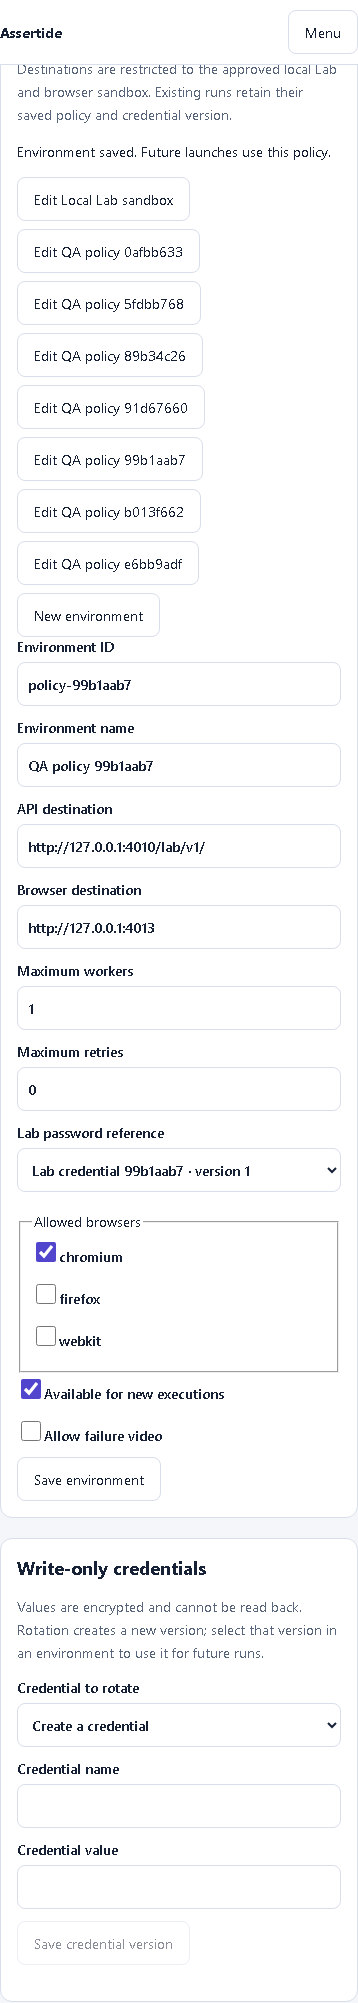
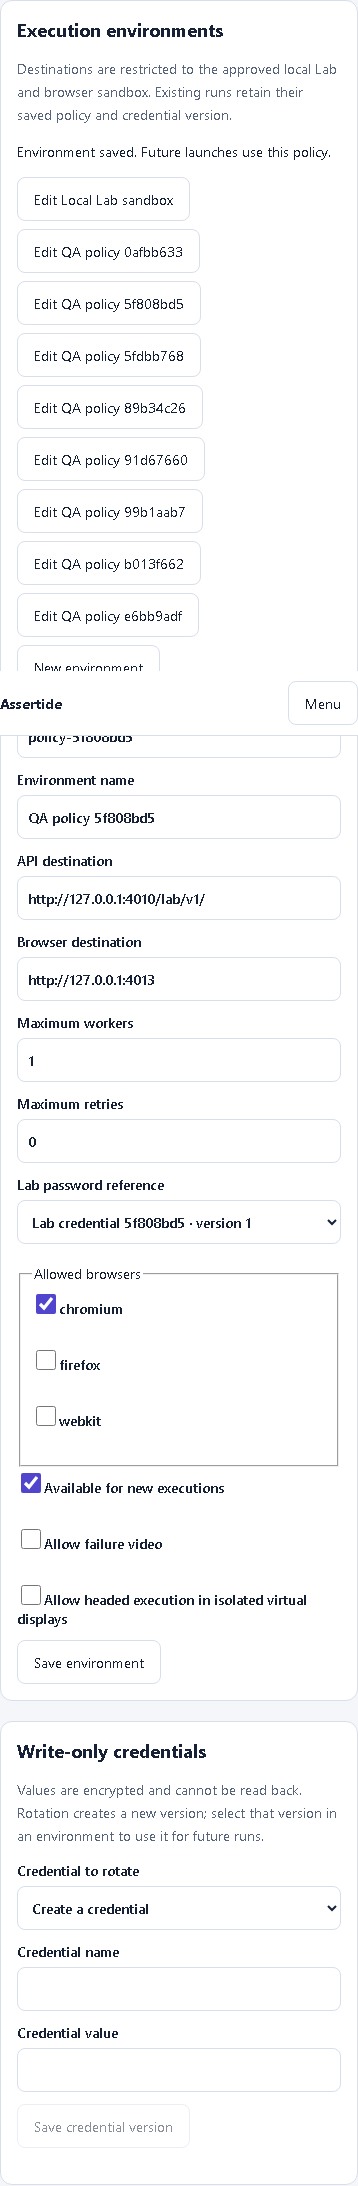
Add policy-controlled headed execution in isolated virtual displays

diff --git a/apps/web/src/app/pages/explorer.ts b/apps/web/src/app/pages/explorer.ts
@@ -132,6 +132,12 @@ import { Api, TestCase, Environment, errorMessage } from '../core/api';
         <h2>Configure execution</h2>
         <p>{{ selected().length }} tests selected</p>
         @if (hasUi()) {
+          @if (canHeaded()) {
+            <label
+              ><input type="checkbox" [(ngModel)]="headed" />Headed browser in a virtual
+              display</label
+            >
+          }
           <label
             >Video<select [(ngModel)]="video">
               <option value="off">Off</option>
@@ -238,6 +244,15 @@ export class Explorer {
   browser = 'chromium';
   environmentId = 'local-lab';
   readonly environments = signal<Environment[]>([]);
+  readonly headedAvailable = signal(false);
+  headed = false;
+  canHeaded() {
+    return (
+      this.headedAvailable() &&
+      !!this.environments().find((environment) => environment.id === this.environmentId)
+        ?.allowHeaded
+    );
+  }
   video: 'off' | 'retain-on-failure' = 'off';
   readonly hasUi = computed(() => this.selected().some((id) => id.startsWith('UI-')));
   private key = crypto.randomUUID();
@@ -266,13 +281,12 @@ export class Explorer {
       this.selected.update((ids) =>
         ids.filter((id) => catalog.items.some((item) => item.id === id && item.enabled)),
       );
-      this.environments.set(
-        (
-          await this.api.get<{ items: Environment[] }>(
-            `/projects/${this.api.projectId()}/environments`,
-          )
-        ).items,
-      );
+      const environments = await this.api.get<{
+        items: Environment[];
+        capabilities?: { headed: boolean };
+      }>(`/projects/${this.api.projectId()}/environments`);
+      this.environments.set(environments.items);
+      this.headedAvailable.set(environments.capabilities?.headed ?? false);
       this.revision.set(catalog.revision);
       this.error.set(catalog.discoveryError ?? '');
     } catch (error) {
@@ -320,6 +334,7 @@ export class Explorer {
         this.revision(),
         this.video,
         this.environmentId,
+        this.hasUi() && this.canHeaded() && this.headed,
       );
       await this.router.navigate(['/runs', run.id]);
     } catch (error) {

diff --git a/apps/web/src/app/core/environments.ts b/apps/web/src/app/core/environments.ts
@@ -62,7 +62,11 @@ interface Secret {
           <label
             >Lab password reference<select name="secret" [(ngModel)]="reference">
               <option value="">Generated local credential</option>
-              @if (oldReference()) { <option [value]="draft.passwordRef!.id + ':' + draft.passwordRef!.version">Saved credential · version {{ draft.passwordRef!.version }}</option> }
+              @if (oldReference()) {
+                <option [value]="draft.passwordRef!.id + ':' + draft.passwordRef!.version">
+                  Saved credential · version {{ draft.passwordRef!.version }}
+                </option>
+              }
               @for (secret of secrets(); track secret.id) {
                 <option [value]="secret.id + ':' + secret.version">
                   {{ secret.name }} · version {{ secret.version }}
@@ -90,6 +94,10 @@ interface Secret {
         <label
           ><input name="video" type="checkbox" [(ngModel)]="draft.allowVideo" />Allow failure
           video</label
+        >
+        <label
+          ><input name="headed" type="checkbox" [(ngModel)]="draft.allowHeaded" />Allow headed
+          execution in isolated virtual displays</label
         >
         <button [disabled]="busy()">Save environment</button>
       </form>
@@ -139,7 +147,16 @@ export class Environments {
   readonly notice = signal('');
   draft: Environment = this.empty();
   reference = '';
-  oldReference() { return this.draft.passwordRef && !this.secrets().some((secret) => secret.id === this.draft.passwordRef?.id && secret.version === this.draft.passwordRef.version); }
+  oldReference() {
+    return (
+      this.draft.passwordRef &&
+      !this.secrets().some(
+        (secret) =>
+          secret.id === this.draft.passwordRef?.id &&
+          secret.version === this.draft.passwordRef.version,
+      )
+    );
+  }
   rotation = '';
   secretName = '';
   secretValue = '';
@@ -158,6 +175,7 @@ export class Environments {
       maxRetries: 0,
       browsers: ['chromium'],
       allowVideo: false,
+      allowHeaded: false,
     };
   }
   fresh() {

diff --git a/apps/api/test/environments.test.ts b/apps/api/test/environments.test.ts
@@ -132,6 +132,15 @@ test("environment policies freeze versioned encrypted credentials and reject for
       randomUUID(),
     );
     assert.equal(JSON.stringify(run).includes(secretValue), false);
+    await assert.rejects(
+      platform.launch(
+        principal,
+        localProjectId,
+        { ...input, headed: true },
+        randomUUID(),
+      ),
+      /policy/,
+    );
     assert.equal(
       (
         await request(
@@ -160,6 +169,42 @@ test("environment policies freeze versioned encrypted credentials and reject for
       passwordRef: { id: string; version: number };
     };
     assert.equal(snapshot.passwordRef.version, 1);
+    const runtime = process.env["WORKER_RUNTIME"];
+    try {
+      assert.equal(
+        (
+          await request(
+            "environments",
+            { ...env, id: "headed", allowHeaded: true },
+            0,
+          )
+        ).status,
+        200,
+      );
+      const headedInput = {
+        ...input,
+        environmentId: "headed",
+        headed: true,
+        selection: { testIds: ["UI-001"] },
+        browserProjects: ["chromium"],
+      };
+      process.env["WORKER_RUNTIME"] = "local";
+      await assert.rejects(
+        platform.launch(principal, localProjectId, headedInput, randomUUID()),
+        /policy/,
+      );
+      process.env["WORKER_RUNTIME"] = "oci";
+      const headedRun = await platform.launch(
+        principal,
+        localProjectId,
+        headedInput,
+        randomUUID(),
+      );
+      assert.equal((headedRun["config"] as { headed: boolean }).headed, true);
+    } finally {
+      if (runtime === undefined) delete process.env["WORKER_RUNTIME"];
+      else process.env["WORKER_RUNTIME"] = runtime;
+    }
     assert.equal(
       (await request("environments", { ...env, enabled: false }, 1)).status,
       200,

diff --git a/apps/api/src/environments.ts b/apps/api/src/environments.ts
@@ -24,6 +24,7 @@ export const environmentSchema = z
       .min(1)
       .max(3),
     allowVideo: z.boolean(),
+    allowHeaded: z.boolean().default(false),
     passwordRef: z
       .object({ id: z.uuid(), version: z.number().int().positive() })
       .strict()
@@ -137,12 +138,10 @@ export function mountEnvironments(
         }
         await work(req, res, principal, project);
       } catch {
-        res
-          .status(500)
-          .json({
-            title: "Environment operation failed",
-            correlationId: randomUUID(),
-          });
+        res.status(500).json({
+          title: "Environment operation failed",
+          correlationId: randomUUID(),
+        });
       }
     };
   app.post(
@@ -150,12 +149,10 @@ export function mountEnvironments(
     handle(async (req, res, principal, project) => {
       const input = environmentSchema.safeParse(req.body);
       if (!input.success) {
-        res
-          .status(422)
-          .json({
-            title:
-              "Only the approved local sandbox destinations and worker limits are permitted",
-          });
+        res.status(422).json({
+          title:
+            "Only the approved local sandbox destinations and worker limits are permitted",
+        });
         return;
       }
       const version = /^"(\d+)"$/.exec(req.get("If-Match") ?? "");
@@ -175,11 +172,9 @@ export function mountEnvironments(
           ],
         );
         if (!found.rows.length) {
-          res
-            .status(422)
-            .json({
-              title: "Credential reference is unavailable in this project",
-            });
+          res.status(422).json({
+            title: "Credential reference is unavailable in this project",
+          });
           return;
         }
       }

diff --git a/apps/api/src/platform.ts b/apps/api/src/platform.ts
@@ -93,7 +93,7 @@ const runInput = z
     browserProjects: z.array(z.enum(["chromium", "firefox", "webkit"])).max(3),
     workers: z.number().int().min(1).max(4),
     retries: z.number().int().min(0).max(2),
-    headed: z.literal(false),
+    headed: z.boolean().default(false),
     video: z.enum(["off", "retain-on-failure"]),
     commitSha: z
       .string()
@@ -544,7 +544,11 @@ export class PlatformService {
       config.browserProjects.some(
         (browser) => !environment?.browsers.includes(browser),
       ) ||
-      (config.video !== "off" && !environment.allowVideo)
+      (config.video !== "off" && !environment.allowVideo) ||
+      (config.headed &&
+        (!environment.allowHeaded ||
+          process.env["WORKER_RUNTIME"] !== "oci" ||
+          !config.selection.testIds.some((id) => id.startsWith("UI-"))))
     )
       throw new ApiError(
         422,
@@ -831,6 +835,7 @@ export function mountPlatform(
           principal.organizationId,
           String(req.params["project"]),
         ),
+        capabilities: { headed: process.env["WORKER_RUNTIME"] === "oci" },
       });
     }),
   );

diff --git a/apps/api/test/oci-worker.test.ts b/apps/api/test/oci-worker.test.ts
@@ -65,6 +65,22 @@ test(
       ) as { stats: { expected: number; unexpected: number } };
       assert.equal(results.stats.expected, 3);
       assert.equal(results.stats.unexpected, 0);
+      const headed = await invoke(command.args, {
+        testIds: ["UI-001"],
+        workers: 1,
+        retries: 0,
+        projects: ["chromium"],
+        headed: true,
+        video: "off",
+        password: randomBytes(24).toString("hex"),
+        signingKey: randomBytes(32).toString("hex"),
+      });
+      assert.equal(headed.code, 0, headed.log);
+      const headedResults = JSON.parse(
+        await readFile(path.join(output, "results.json"), "utf8"),
+      );
+      assert.equal(headedResults.stats.expected, 1);
+      assert.equal(headedResults.stats.unexpected, 0);
       const inspect = await invoke(["inspect", `assertide-worker-${id}`]);
       assert.notEqual(inspect.code, 0, "container must be removed");
       const sleeper = [...command.args];

diff --git a/apps/api/src/local-runner.ts b/apps/api/src/local-runner.ts
@@ -56,6 +56,7 @@ const root = fileURLToPath(new URL("../../../", import.meta.url));
 export const runRoot = path.join(root, ".local", "runs");
 const automationRoot = path.join(root, "packages", "automation");
 const configuration = z.object({
+  headed: z.boolean().default(false),
   environmentId: z.string().default("local-lab"),
   catalogRevision: z.string(),
   workers: z.number().int().min(1).max(4),
@@ -503,6 +504,7 @@ export class LocalRunner {
                   ...run.config.browserProjects,
                 ],
                 video: run.config.video,
+                headed: run.config.headed,
                 password:
                   password ||
                   process.env["LAB_PASSWORD"] ||

diff --git a/apps/web/src/app/core/api.ts b/apps/web/src/app/core/api.ts
@@ -25,6 +25,7 @@ export interface Environment {
   maxRetries: number;
   browsers: string[];
   allowVideo: boolean;
+  allowHeaded: boolean;
   passwordRef?: { id: string; version: number };
 }
 export interface TestCase {
@@ -195,6 +196,7 @@ export class Api {
     revision?: string,
     video: 'off' | 'retain-on-failure' = 'off',
     environmentId = 'local-lab',
+    headed = false,
   ) {
     const catalogRevision =
       revision ??
@@ -208,7 +210,7 @@ export class Api {
         browserProjects: testIds.some((id) => id.startsWith('UI-')) ? [browser] : [],
         workers,
         retries,
-        headed: false,
+        headed,
         video,
       },
       key,

diff --git a/apps/web/src/app/pages/run-detail.ts b/apps/web/src/app/pages/run-detail.ts
@@ -99,7 +99,8 @@ import { ResultSteps, ResultNotes } from '../core/result-investigation';
           }
           @if (current.workerImage) {
             <p class="muted">
-              Isolated worker image: <code>{{ current.workerImage }}</code>
+              Isolated worker image:
+              <code style="overflow-wrap: anywhere">{{ current.workerImage }}</code>
             </p>
           }
         </section>

diff --git a/CHANGELOG.md b/CHANGELOG.md
@@ -6,6 +6,8 @@ Noteworthy completed changes are recorded here. Entries under Unreleased have no
 
 ### Added
 
+- Added environment-controlled headed execution for isolated Linux workers, using a private virtual display per run. Policy tests verify local-runtime and API-only refusal and authorized OCI launch; the environment browser workflow passes locally. Linux execution is covered by the OCI integration gate. See [worker setup](docs/isolated-workers.md).
+
 - Added automated accessibility checks across login, primary routes, configuration, live execution and result investigation in light/dark desktop/mobile states. Fixed undersized result targets, audit-table keyboard scrolling and skip-link route changes; mobile navigation now supports focus containment and Escape. All 44 local view/state scans and keyboard checks pass; [coverage and limitations](docs/accessibility.md).
 - Results now retain nested attempt steps, versioned failure categories, supported expected/actual assertion values, comparable prior-result links and authored investigation notes. Notes are scoped, audited and separate from immutable outcomes. Database and browser checks pass, including note persistence and desktop/mobile investigation views.
 - Added a guarded PostgreSQL backup/restore command with checksum and encryption-key verification, empty-target protection and a successful CI recovery drill. See [recovery setup and measured scope](docs/database-recovery.md).

diff --git a/docs/isolated-workers.md b/docs/isolated-workers.md
@@ -1,5 +1,7 @@
 # Isolated workers
 
+Environments can opt into headed browser execution in Settings. Explorer exposes the headed option only when that policy permits it and the API uses OCI workers. Each headed run starts its own Xvfb display inside the same network-isolated container; API-only and Windows local-process launches reject headed mode. Existing environments default to headless. The OCI integration check exercises a real headed Chromium case; inspect the latest PR checks for Linux verification.
+
 Linux workers can execute the approved fixture snapshot in a Docker container. First run `node scripts/setup-sandbox.mjs`, then build `docker build -f workers/Dockerfile -t assertide-worker:local .`. Set `WORKER_RUNTIME=oci` and set `OCI_WORKER_IMAGE` to the immutable ID returned by `docker image inspect --format '{{.Id}}' assertide-worker:local`. Use a non-root supervisor account with access to Docker. Treat that account and the Docker daemon as privileged infrastructure.
 
 Runs freeze the image identifier; a worker refuses a run assigned to a different image. The image contains the installed dependency lock and pinned local store fixture. Entry validates that the approved source lock matches the image before executing it. Changing dependencies requires rebuilding the image. Source is mounted read-only and copied into temporary storage; only the run output directory is writable on the host.
